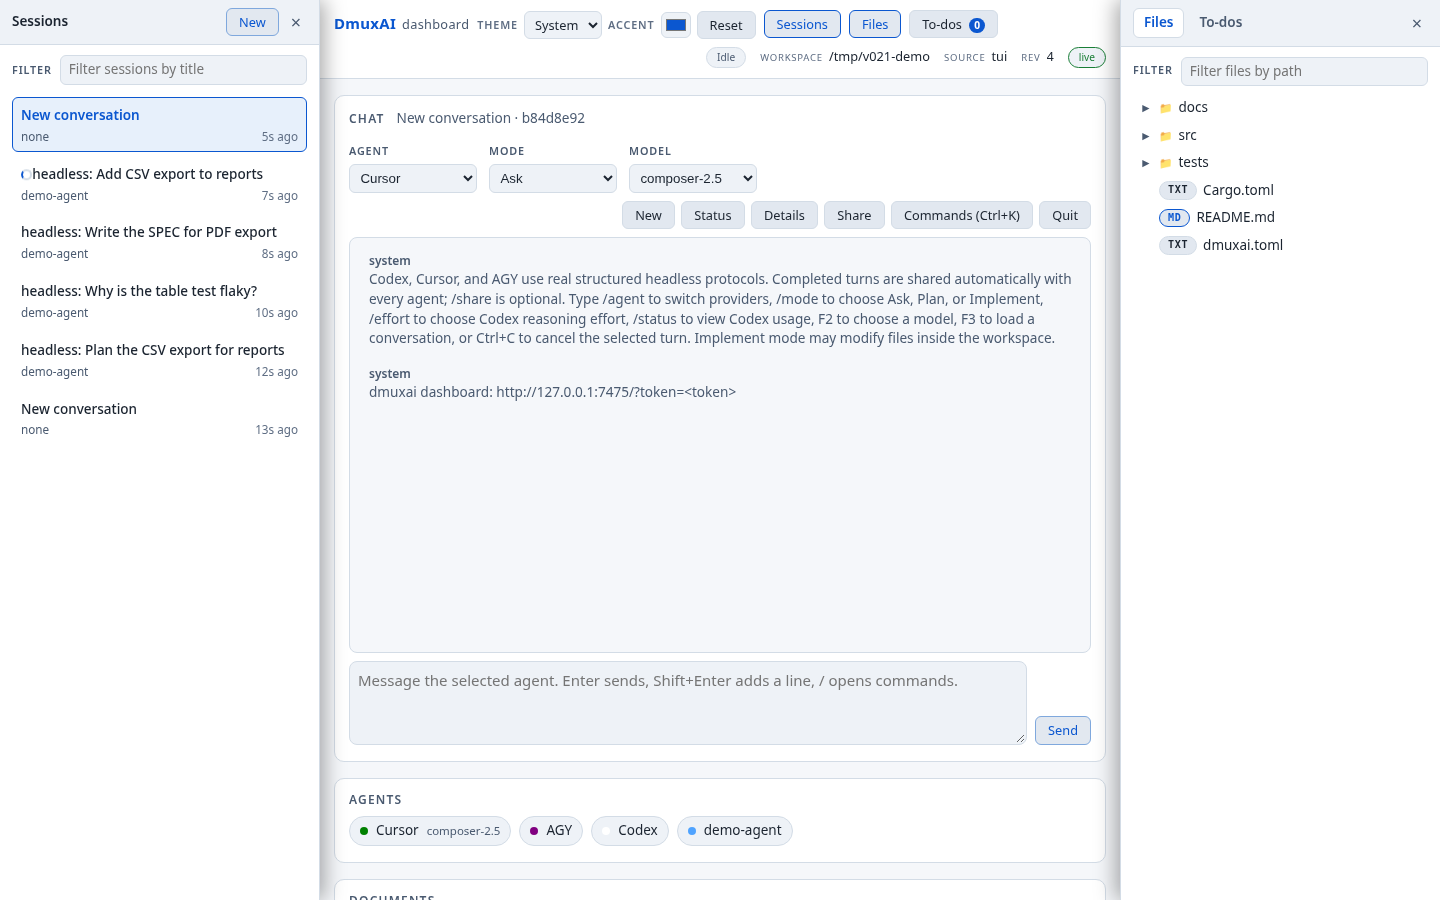
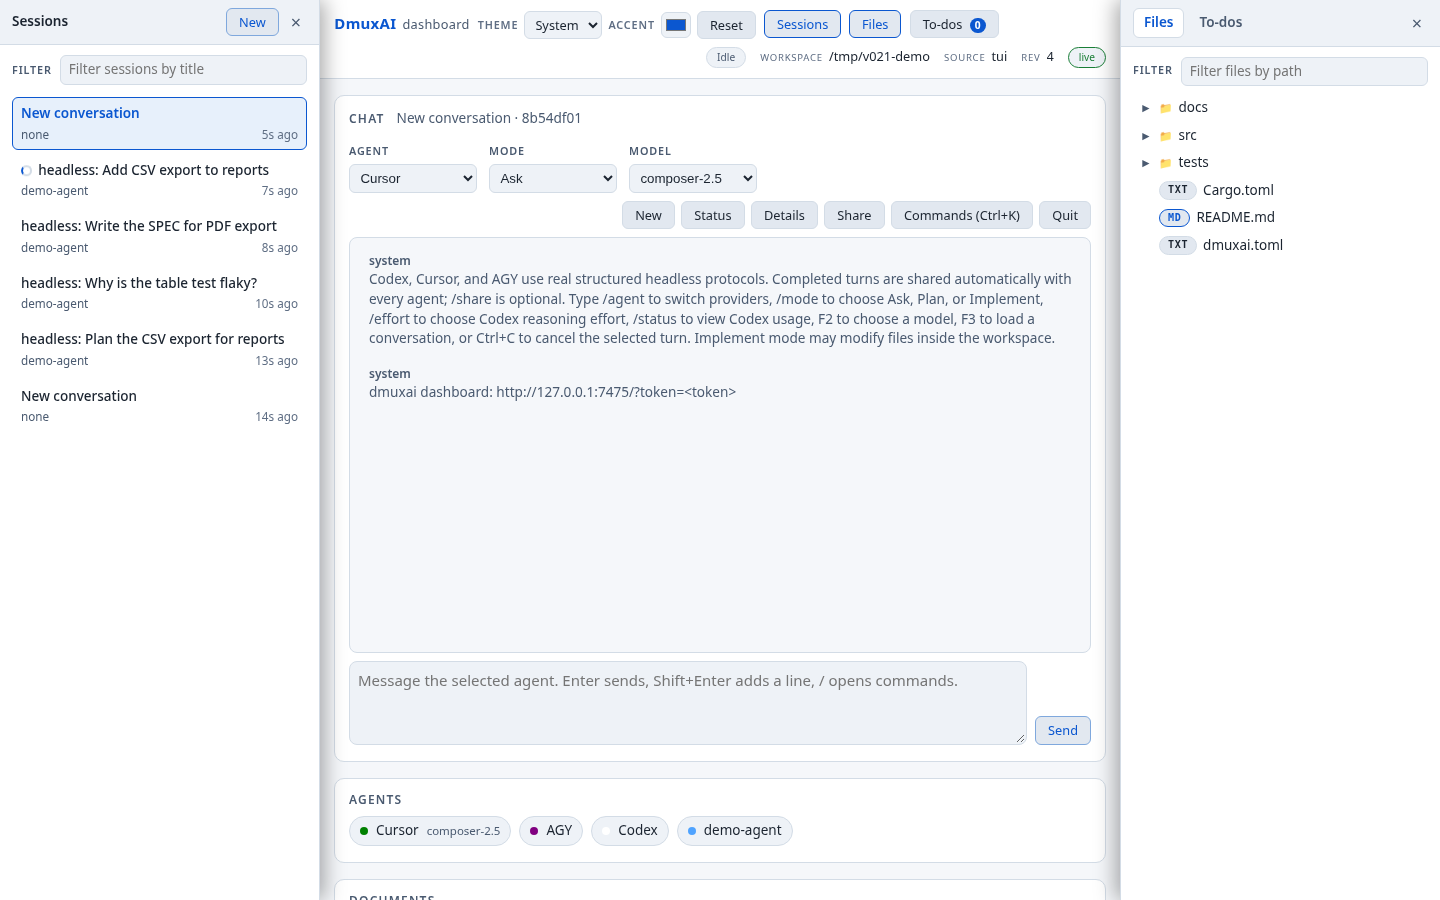
fix(web): session row class names, announced running spinner, pre-snapshot toggle persistence; SPEC decisions

diff --git a/src/web/assets/session.js b/src/web/assets/session.js
@@ -49,6 +49,9 @@
   var workspaceInitialized = null;
   var sessionsOpen = false;
   var sessionsFilter = '';
+  // A toggle made before the first snapshot names the workspace is kept here
+  // and saved under the real workspace key once it is known.
+  var pendingSessionsOpen = null;
 
   function sessionsStorageKey() {
     return SESSIONS_OPEN_PREFIX + (workspaceKey || 'default');
@@ -77,7 +80,11 @@
     document.body.classList.toggle('left-sidebar-open', sessionsOpen);
     syncSessionsBackdrop();
     if (persist) {
-      localSet(sessionsStorageKey(), sessionsOpen ? '1' : '0');
+      if (workspaceInitialized === 'default') {
+        pendingSessionsOpen = sessionsOpen;
+      } else {
+        localSet(sessionsStorageKey(), sessionsOpen ? '1' : '0');
+      }
     }
   }
 
@@ -86,6 +93,12 @@
     if (workspaceInitialized === key) { return; }
     workspaceKey = key;
     workspaceInitialized = key;
+    if (key !== 'default' && pendingSessionsOpen !== null) {
+      var pending = pendingSessionsOpen;
+      pendingSessionsOpen = null;
+      setSessionsOpen(pending, true);
+      return;
+    }
     var saved = localGet(sessionsStorageKey());
     if (saved === '1') {
       setSessionsOpen(true, false);
@@ -573,7 +586,7 @@
 
     filtered.forEach(function (c) {
       var isActive = c.id === session.conversation_id;
-      var li = el('li', 'sessions-row' + (isActive ? ' active' : '') + (viewOnly ? ' disabled' : ''));
+      var li = el('li', 'sessions-row' + (isActive ? ' sessions-row-active' : '') + (viewOnly ? ' sessions-row-disabled' : ''));
       li.tabIndex = 0;
       li.setAttribute('data-id', c.id);
       li.setAttribute('data-parity', 'resume');
@@ -581,9 +594,10 @@
         li.setAttribute('aria-current', 'true');
       }
 
-      var top = el('div', 'sessions-row-top');
+      var top = el('div', 'sessions-row-head');
       if (c.running) {
         var spin = el('span', 'spinner');
+        spin.setAttribute('role', 'img');
         spin.setAttribute('aria-label', 'running');
         top.appendChild(spin);
       }

diff --git a/docs/specs/SPEC-session-sidebar.md b/docs/specs/SPEC-session-sidebar.md
@@ -33,6 +33,10 @@ Decision: move the list into a collapsible **left sidebar**, like ChatGPT's. It 
 - `SessionConversation` (`src/web/snapshot.rs`) carries `#[serde(default)]` on `last_agent`, `turn_count` and `running` so older snapshots deserialize cleanly.
 - Per-workspace sidebar open state is persisted in `localStorage` under `dmuxai.sessions.open.<workspace>` (`'1'` or `'0'`), defaulting to open when `window.innerWidth > 1200`. Toggling syncs `body.left-sidebar-open` so SPEC-centered-prompt reserves `--left-dock: 320px` above 900px.
 - Because `dmuxai serve` is view-only (`load_conversation` and `new_conversation` disabled), `TC-863` launches interactive `dmuxai --web --port <port>` under a pseudo-terminal (`pty.openpty()`) after seeding conversations with `dmuxai run`.
+- `running` reflects queued or running turn rows. A turn left `running` by a crashed peer stays marked until the startup recovery of SPEC-multi-instance-workspace resets it.
+- The dashboard header sits inside the dock padding too, wrapping when narrow, so the left sidebar never covers the brand and controls. This replaces the full-width header counter-margins from #54.
+- The TUI picker puts `● running` at the start of the row, so a narrow picker never cuts it off.
+- A sidebar toggle made before the first snapshot names the workspace is held and saved under the real workspace key, never under a placeholder key.
 
 ## 3. Tests
 
